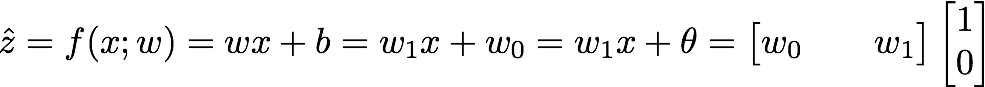
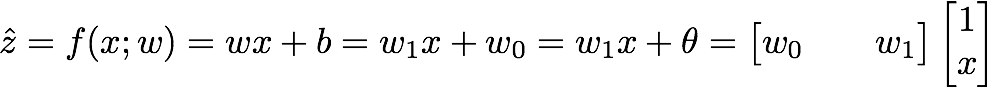
fixed z prediction equation and added to .tex file

diff --git a/img/Lecture-2/Latex/Lecture1.tex b/img/Lecture-2/Latex/Lecture1.tex
@@ -11,8 +11,16 @@
 
 
 
-
-
+$
+\hat{z} = f(x;w) = wx + b = w_{1}x + w_{0} = w_{1}x + \theta =
+\begin{bmatrix}
+ w_{0} && w_{1} 
+\end{bmatrix}
+\begin{bmatrix}
+  1\\
+  x
+\end{bmatrix}
+$
 
 
 \text{Error (measures how far off each of our samples our prediction is)}\\\\
